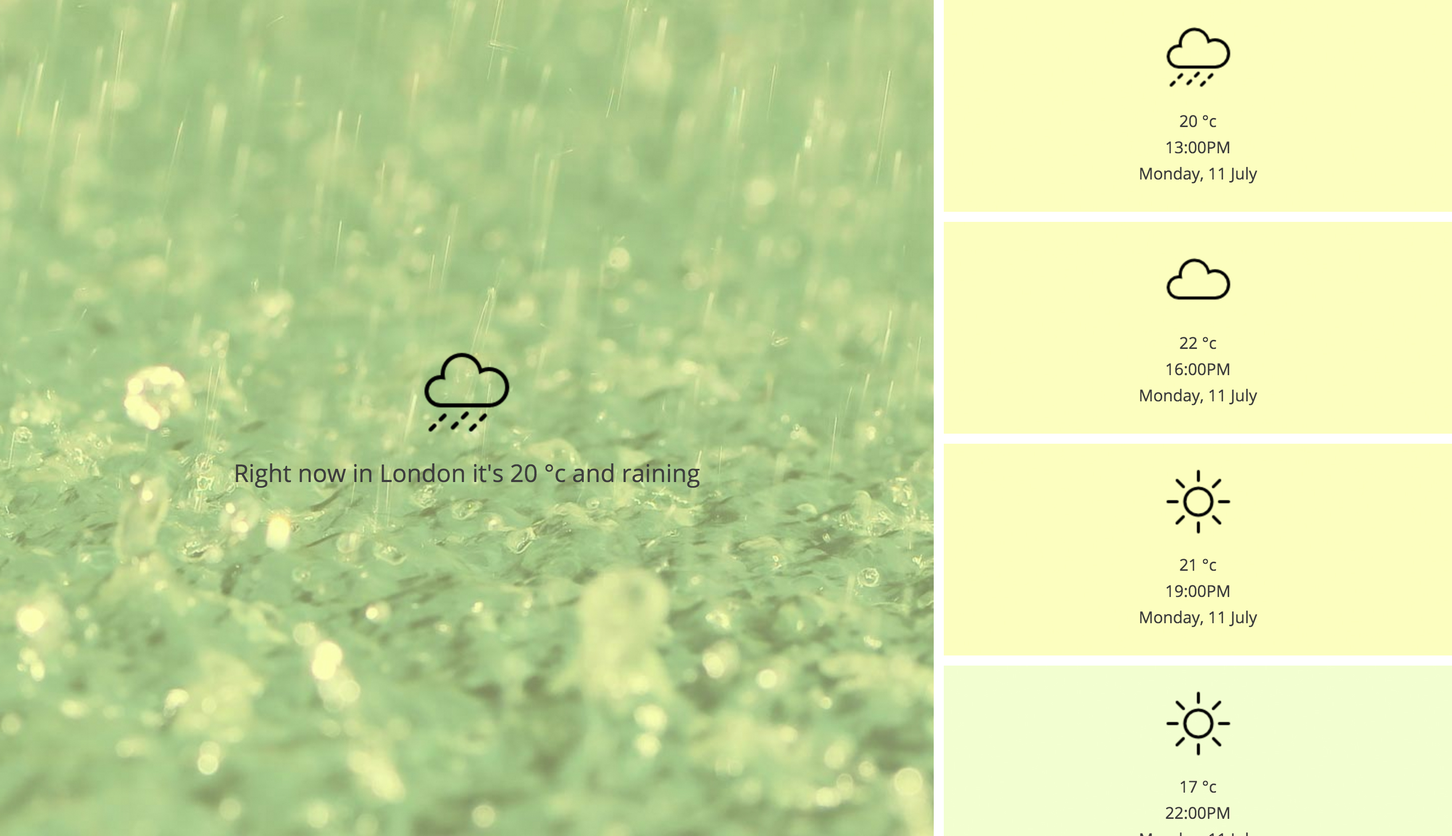
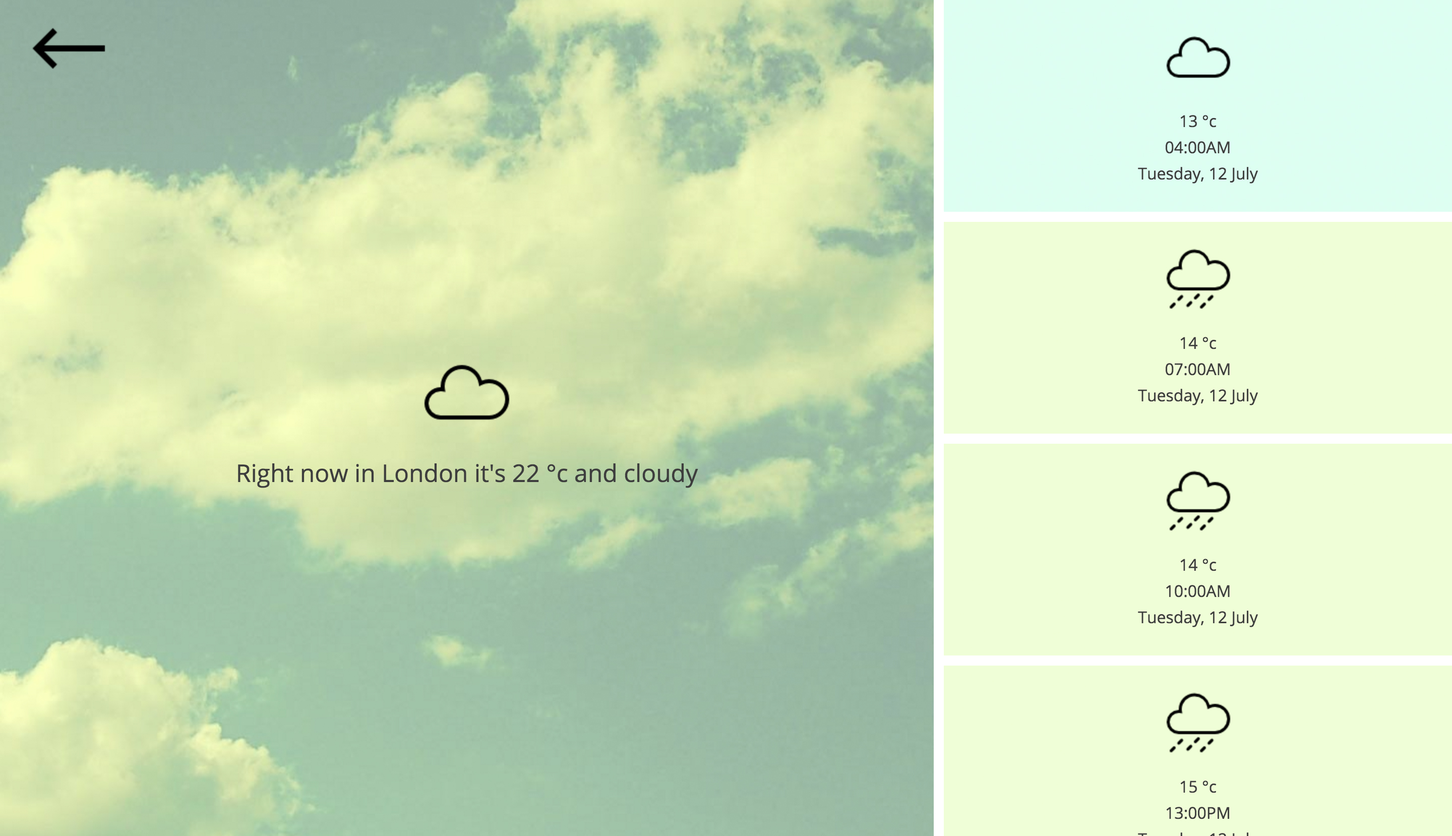
searching for a city streamlined, general bug fixes and read me updated

diff --git a/src/js/app.js b/src/js/app.js
@@ -1,43 +1,80 @@
-var app = angular.module('weather', []);
+var openWeatherMapApiKey = 'fb161b8bdfd1a946ed269b0b2cf42b77';
 var citiesJson = [{"city":"Adak","country":"United States"},{"city":"Apia","country":"Samoa"},{"city":"Pago Pago","country":"United States"},{"city":"Alofi","country":"Niue"},{"city":"Avarua","country":"Cook Islands"},{"city":"Honolulu","country":"United States"},{"city":"Hilo","country":"United States"},{"city":"Anchorage","country":"United States"},{"city":"Papeete","country":"French Polynesia"},{"city":"Fairbanks","country":"United States"},{"city":"Sitka","country":"United States"},{"city":"Whitehorse","country":"Canada"},{"city":"Juneau","country":"United States"},{"city":"Adamstown","country":"United States"},{"city":"Vancouver","country":"Canada"},{"city":"Portland","country":"United States"},{"city":"San Francisco","country":"United States"},{"city":"Seattle","country":"United States"},{"city":"Sacramento","country":"United States"},{"city":"Los Angeles","country":"United States"},{"city":"Riverside","country":"United States"},{"city":"San Diego","country":"United States"},{"city":"Tijuana","country":"Mexico"},{"city":"Mexicali","country":"Mexico"},{"city":"Las Vegas","country":"United States"},{"city":"Yellowknife","country":"Canada"},{"city":"Calgary","country":"Canada"},{"city":"Edmonton","country":"Canada"},{"city":"Phoenix","country":"United States"},{"city":"Salt Lake City","country":"United States"},{"city":"Tucson","country":"United States"},{"city":"Hanga Roa","country":"Chile"},{"city":"Saskatoon","country":"Canada"},{"city":"Albuquerque","country":"United States"},{"city":"El Paso","country":"United States"},{"city":"Chihuahua","country":"Mexico"},{"city":"Denver","country":"United States"},{"city":"Durango","country":"Mexico"},{"city":"Regina","country":"Canada"},{"city":"Zapopan","country":"Mexico"},{"city":"Guadalajara","country":"Mexico"},{"city":"Monterrey","country":"Mexico"},{"city":"Mexico City","country":"Mexico"},{"city":"San Antonio","country":"United States"},{"city":"Puebla","country":"Mexico"},{"city":"Austin","country":"United States"},{"city":"Oklahoma City","country":"United States"},{"city":"Wichita","country":"United States"},{"city":"Winnipeg","country":"Canada"},{"city":"Dallas","country":"United States"},{"city":"Veracruz","country":"Mexico"},{"city":"Houston","country":"United States"},{"city":"Kansas City","country":"United States"},{"city":"Minneapolis","country":"United States"},{"city":"Quetzaltenango","country":"Guatemala"},{"city":"Guatemala City","country":"Guatemala"},{"city":"New Orleans","country":"United States"},{"city":"Memphis","country":"United States"},{"city":"Mérida","country":"Mexico"},{"city":"San Salvador","country":"El Salvador"},{"city":"Belmopan","country":"Belize"},{"city":"Belize City","country":"Belize"},{"city":"Milwaukee","country":"United States"},{"city":"Chicago","country":"United States"},{"city":"Tegucigalpa","country":"Honduras"},{"city":"Nashville","country":"United States"},{"city":"Managua","country":"Nicaragua"},{"city":"Indianapolis","country":"United States"},{"city":"Louisville","country":"United States"},{"city":"Cincinnati","country":"United States"},{"city":"Atlanta","country":"United States"},{"city":"San José","country":"Costa Rica"},{"city":"Detroit","country":"United States"},{"city":"Columbus","country":"United States"},{"city":"Tampa","country":"United States"},{"city":"Havana","country":"Cuba"},{"city":"Cleveland","country":"United States"},{"city":"Jacksonville","country":"United States"},{"city":"George Town","country":"Malaysia"},{"city":"Charlotte","country":"United States"},{"city":"Miami","country":"United States"},{"city":"Pittsburgh","country":"United States"},{"city":"Guayaquil","country":"Ecuador"},{"city":"Panama City","country":"Panama"},{"city":"Toronto","country":"Canada"},{"city":"Buffalo","country":"United States"},{"city":"Raleigh","country":"United States"},{"city":"Quito","country":"Ecuador"},{"city":"Rochester","country":"United States"},{"city":"Nassau","country":"The Bahamas"},{"city":"Washington","country":"United States"},{"city":"Lima","country":"Peru"},{"city":"Kingston","country":"Jamaica"},{"city":"Baltimore","country":"United States"},{"city":"Cali","country":"Colombia"},{"city":"Virginia Beach","country":"United States"},{"city":"Ottawa","country":"Canada"},{"city":"Medellín","country":"Colombia"},{"city":"Cartagena","country":"Colombia"},{"city":"Philadelphia","country":"United States"},{"city":"Barranquilla","country":"Colombia"},{"city":"Forked River","country":"United States"},{"city":"Jersey City","country":"United States"},{"city":"Bogotá","country":"Colombia"},{"city":"Montreal","country":"Canada"},{"city":"Iquitos","country":"Peru"},{"city":"Valdivia","country":"Chile"},{"city":"Concepción","country":"Chile"},{"city":"Cusco","country":"Peru"},{"city":"Maracaibo","country":"Venezuela"},{"city":"Valparaíso","country":"Chile"},{"city":"Arequipa","country":"Peru"},{"city":"Providence","country":"United States"},{"city":"La Serena","country":"Chile"},{"city":"Cockburn Town","country":"Turks and Caicos Islands"},{"city":"Boston","country":"United States"},{"city":"Punta Arenas","country":"Chile"},{"city":"Santiago","country":"Chile"},{"city":"Antofagasta","country":"Chile"},{"city":"Iquique","country":"Chile"},{"city":"Oranjestad","country":"Aruba"},{"city":"Santo Domingo","country":"Dominican Republic"},{"city":"Rio Branco","country":"Brazil"},{"city":"Willemstad","country":"Netherlands Antilles"},{"city":"Calama","country":"Chile"},{"city":"Mendoza","country":"Argentina"},{"city":"Iqaluit","country":"Canada"},{"city":"Ushuaia","country":"Argentina"},{"city":"La Paz","country":"Bolivia"},{"city":"Puerto Williams","country":"Chile"},{"city":"Caracas","country":"Venezuela"},{"city":"Fredericton","country":"Canada"},{"city":"San Juan","country":"Puerto Rico"},{"city":"Saint John","country":"Grenada"},{"city":"Sucre","country":"Bolivia"},{"city":"Charlotte Amalie","country":"United States"},{"city":"Hamilton","country":"Bermuda"},{"city":"Road Town","country":"British Virgin Islands"},{"city":"Córdoba","country":"Argentina"},{"city":"Porto Velho","country":"Brazil"},{"city":"Charlottetown","country":"Canada"},{"city":"The Valley","country":"Anguilla"},{"city":"Basse-Terre","country":"Guadeloupe"},{"city":"Bahía Blanca","country":"Argentina"},{"city":"St. John's","country":"Canada"},{"city":"San Fernando","country":"Trinidad and Tobago"},{"city":"Roseau","country":"Dominica"},{"city":"Chaguanas","country":"Trinidad and Tobago"},{"city":"Kingstown","country":"Saint Vincent and the Grenadines"},{"city":"Castries","country":"St. Lucia"},{"city":"Rosario","country":"Argentina"},{"city":"Boa Vista","country":"Brazil"},{"city":"Manaus","country":"Brazil"},{"city":"Bridgetown","country":"Barbados"},{"city":"Buenos Aires","country":"Argentina"},{"city":"Stanley","country":"Hong Kong"},{"city":"Asunción","country":"Paraguay"},{"city":"Saint-Pierre","country":"Réunion"},{"city":"Montevideo","country":"Uruguay"},{"city":"Cuiabá","country":"Brazil"},{"city":"Paramaribo","country":"Suriname"},{"city":"Campo Grande","country":"Brazil"},{"city":"Chuí","country":"Brazil"},{"city":"Pelotas","country":"Brazil"},{"city":"Cayenne","country":"French Guiana"},{"city":"Nuuk","country":"Greenland"},{"city":"Porto Alegre","country":"Brazil"},{"city":"Macapá","country":"Brazil"},{"city":"Assis","country":"Italy"},{"city":"Curitiba","country":"Brazil"},{"city":"Belém","country":"Brazil"},{"city":"Brasília","country":"Brazil"},{"city":"Campinas","country":"Brazil"},{"city":"São Paulo","country":"Brazil"},{"city":"Vitória","country":"Brazil"},{"city":"Ilhéus","country":"Brazil"},{"city":"Fortaleza","country":"Brazil"},{"city":"Maceió","country":"Brazil"},{"city":"Recife","country":"Brazil"},{"city":"Ponta Delgada","country":"Portugal"},{"city":"Praia","country":"Brazil"},{"city":"Reykjavík","country":"Iceland"},{"city":"Dakar","country":"Senegal"},{"city":"Thiès","country":"Senegal"},{"city":"Serekunda","country":"The Gambia"},{"city":"Brikama","country":"The Gambia"},{"city":"Banjul","country":"The Gambia"},{"city":"Nouakchott","country":"Mauritania"},{"city":"Bissau","country":"Guinea-Bissau"},{"city":"Conakry","country":"Guinea"},{"city":"Freetown","country":"Sierra Leone"},{"city":"El Aaiún","country":"Western Sahara"},{"city":"Monrovia","country":"Liberia"},{"city":"Lisbon","country":"Portugal"},{"city":"Porto","country":"Brazil"},{"city":"Bamako","country":"Mali"},{"city":"Casablanca","country":"Morocco"},{"city":"Koulikoro","country":"Mali"},{"city":"Rabat","country":"Morocco"},{"city":"Tórshavn","country":"Faroe Islands"},{"city":"Dublin","country":"Ireland"},{"city":"Seville","country":"Spain"},{"city":"Belfast","country":"United Kingdom"},{"city":"Jamestown","country":"United States"},{"city":"Gibraltar","country":"Gibraltar"},{"city":"Yamoussoukro","country":"Côte d'Ivoire"},{"city":"Douglas","country":"Australia"},{"city":"Málaga","country":"Spain"},{"city":"Glasgow","country":"United Kingdom"},{"city":"Abidjan","country":"Côte d'Ivoire"},{"city":"Madrid","country":"Spain"},{"city":"Cardiff","country":"United Kingdom"},{"city":"Edinburgh","country":"United Kingdom"},{"city":"Timbuktu","country":"Mali"},{"city":"Liverpool","country":"United Kingdom"},{"city":"Bilbao","country":"Spain"},{"city":"Manchester","country":"United Kingdom"},{"city":"Aberdeen","country":"United Kingdom"},{"city":"Birmingham","country":"United Kingdom"},{"city":"Leeds","country":"United Kingdom"},{"city":"Nantes","country":"France"},{"city":"Ouagadougou","country":"Burkina Faso"},{"city":"Tamale","country":"Ghana"},{"city":"Valencia","country":"Spain"},{"city":"Accra","country":"Ghana"},{"city":"London","country":"United Kingdom"},{"city":"Greenwich","country":"United Kingdom"},{"city":"Lomé","country":"Togo"},{"city":"Toulouse","country":"France"},{"city":"Ibiza","country":"Spain"},{"city":"Niamey","country":"Niger"},{"city":"Barcelona","country":"Spain"},{"city":"Paris","country":"France"},{"city":"Cotonou","country":"Benin"},{"city":"Porto-Novo","country":"Benin"},{"city":"Palma","country":"Spain"},{"city":"Algiers","country":"Algeria"},{"city":"Lagos","country":"Nigeria"},{"city":"Ibadan","country":"Nigeria"},{"city":"The Hague","country":"Netherlands"},{"city":"Brussels","country":"Belgium"},{"city":"Antwerp","country":"Belgium"},{"city":"Rotterdam","country":"Netherlands"},{"city":"Lyon","country":"France"},{"city":"Amsterdam","country":"Netherlands"},{"city":"Marseille","country":"France"},{"city":"Bergen","country":"Norway"},{"city":"Geneva","country":"Switzerland"},{"city":"São Tomé","country":"Brazil"},{"city":"Düsseldorf","country":"Germany"},{"city":"Cologne","country":"Germany"},{"city":"Cannes","country":"France"},{"city":"Nice","country":"France"},{"city":"Monaco","country":"Monaco"},{"city":"Bern","country":"Brazil"},{"city":"Abuja","country":"Nigeria"},{"city":"Enugu","country":"Nigeria"},{"city":"Turin","country":"Italy"},{"city":"Strasbourg","country":"France"},{"city":"Kano","country":"Nigeria"},{"city":"Zürich","country":"Switzerland"},{"city":"Frankfurt","country":"Germany"},{"city":"Malabo","country":"Philippines"},{"city":"Stuttgart","country":"Germany"},{"city":"Milan","country":"Italy"},{"city":"Libreville","country":"Gabon"},{"city":"Vaduz","country":"Liechtenstein"},{"city":"Douala","country":"Cameroon"},{"city":"Hanover","country":"Germany"},{"city":"Hamburg","country":"Germany"},{"city":"Tunis","country":"Tunisia"},{"city":"Aarhus","country":"Denmark"},{"city":"Oslo","country":"Norway"},{"city":"Innsbruck","country":"Austria"},{"city":"Yaoundé","country":"Cameroon"},{"city":"Munich","country":"Germany"},{"city":"Gothenburg","country":"Sweden"},{"city":"Leipzig","country":"Germany"},{"city":"Rome","country":"Italy"},{"city":"Copenhagen","country":"Denmark"},{"city":"Malmö","country":"Sweden"},{"city":"Salzburg","country":"Austria"},{"city":"Tripoli","country":"Libya"},{"city":"Luanda","country":"Angola"},{"city":"Berlin","country":"Germany"},{"city":"Dresden","country":"Germany"},{"city":"Naples","country":"Italy"},{"city":"Linz","country":"Austria"},{"city":"Prague","country":"Czech Republic"},{"city":"Sabha","country":"Libya"},{"city":"Birkirkara","country":"Malta"},{"city":"Ljubljana","country":"Slovenia"},{"city":"Valletta","country":"Malta"},{"city":"N'Djamena","country":"Chad"},{"city":"Brazzaville","country":"Republic of the Congo"},{"city":"Kinshasa","country":"Democratic Republic of the Congo"},{"city":"Graz","country":"Austria"},{"city":"Longyearbyen","country":"Svalbard and Jan Mayen"},{"city":"Zagreb","country":"Croatia"},{"city":"Vienna","country":"Austria"},{"city":"Bratislava","country":"Slovakia"},{"city":"Stockholm","country":"Sweden"},{"city":"Sarajevo","country":"Bosnia and Herzegovina"},{"city":"Cape Town","country":"South Africa"},{"city":"Bangui","country":"Central African Republic"},{"city":"Budapest","country":"Hungary"},{"city":"Podgorica","country":"Montenegro"},{"city":"Tirana","country":"Albania"},{"city":"Kraków","country":"Poland"},{"city":"Belgrade","country":"Serbia"},{"city":"Kaliningrad","country":"Russia"},{"city":"Warsaw","country":"Poland"},{"city":"Pristina","country":"Kosovo"},{"city":"Skopje","country":"Macedonia"},{"city":"Sofia","country":"Bulgaria"},{"city":"Athens","country":"Greece"},{"city":"Tampere","country":"Finland"},{"city":"Lviv","country":"Ukraine"},{"city":"Riga","country":"Latvia"},{"city":"Espoo","country":"Finland"},{"city":"Tallinn","country":"Estonia"},{"city":"Helsinki","country":"Finland"},{"city":"Vilnius","country":"Lithuania"},{"city":"Port Elizabeth","country":"South Africa"},{"city":"Livingstone","country":"Zambia"},{"city":"Gaborone","country":"Botswana"},{"city":"Bucharest","country":"Romania"},{"city":"Bloemfontein","country":"South Africa"},{"city":"Tartu","country":"Syria"},{"city":"Lubumbashi","country":"Democratic Republic of the Congo"},{"city":"Maseru","country":"Lesotho"},{"city":"Francistown","country":"Botswana"},{"city":"Minsk","country":"Belarus"},{"city":"Johannesburg","country":"South Africa"},{"city":"Pretoria","country":"South Africa"},{"city":"Lusaka","country":"Zambia"},{"city":"Ndola","country":"Zambia"},{"city":"Bulawayo","country":"Zimbabwe"},{"city":"Istanbul","country":"Turkey"},{"city":"Bursa","country":"Turkey"},{"city":"Bujumbura","country":"Burundi"},{"city":"Tiraspol","country":"Moldova"},{"city":"Alexandria","country":"Egypt"},{"city":"Kigali","country":"Rwanda"},{"city":"Saint Petersburg","country":"Russia"},{"city":"Odessa","country":"Ukraine"},{"city":"Harare","country":"Zimbabwe"},{"city":"Durban","country":"South Africa"},{"city":"Mbabane","country":"Swaziland"},{"city":"Lobamba","country":"Swaziland"},{"city":"Cairo","country":"Egypt"},{"city":"Manzini","country":"Swaziland"},{"city":"Port Said","country":"Egypt"},{"city":"Konya","country":"Turkey"},{"city":"Omdurman","country":"Sudan"},{"city":"Khartoum","country":"Sudan"},{"city":"Suez","country":"Egypt"},{"city":"Maputo","country":"Mozambique"},{"city":"Luxor","country":"Egypt"},{"city":"Ankara","country":"Turkey"},{"city":"Mwanza","country":"Tanzania"},{"city":"Murmansk","country":"Russia"},{"city":"Nicosia","country":"Cyprus"},{"city":"Lilongwe","country":"Malawi"},{"city":"Simferopol","country":"Ukraine"},{"city":"Gaza","country":"Palestine"},{"city":"Mersin","country":"Turkey"},{"city":"Tel Aviv","country":"Israel"},{"city":"Blantyre","country":"Malawi"},{"city":"Jerusalem","country":"Israel"},{"city":"Adana","country":"Turkey"},{"city":"Beirut","country":"Lebanon"},{"city":"Dodoma","country":"Tanzania"},{"city":"Amman","country":"Jordan"},{"city":"Damascus","country":"Syria"},{"city":"Kharkiv","country":"Ukraine"},{"city":"Nairobi","country":"Kenya"},{"city":"Gaziantep","country":"Turkey"},{"city":"Moscow","country":"Russia"},{"city":"Addis Ababa","country":"Ethiopia"},{"city":"Asmara","country":"Eritrea"},{"city":"Jeddah","country":"Saudi Arabia"},{"city":"Zanzibar City","country":"Tanzania"},{"city":"Medina","country":"Saudi Arabia"},{"city":"Mecca","country":"Saudi Arabia"},{"city":"Sukhumi","country":"Georgia"},{"city":"Moroni","country":"Comoros"},{"city":"Baghdad","country":"Iraq"},{"city":"Hargeisa","country":"Somalia"},{"city":"Yerevan","country":"Armenia"},{"city":"Tbilisi","country":"Georgia"},{"city":"Mamoudzou","country":"Mayotte"},{"city":"Mogadishu","country":"Somalia"},{"city":"Tabriz","country":"Iran"},{"city":"Riyadh","country":"Saudi Arabia"},{"city":"Stepanakert","country":"Azerbaijan"},{"city":"Antananarivo","country":"Madagascar"},{"city":"Basra","country":"Iraq"},{"city":"Baku","country":"Azerbaijan"},{"city":"Dammam","country":"Saudi Arabia"},{"city":"Samara","country":"Russia"},{"city":"Manama","country":"Bahrain"},{"city":"Tehran","country":"Iran"},{"city":"Doha","country":"Qatar"},{"city":"Abu Dhabi","country":"United Arab Emirates"},{"city":"Dubai","country":"United Arab Emirates"},{"city":"Saint-Denis","country":"Réunion"},{"city":"Perm","country":"Russia"},{"city":"Port Louis","country":"Mauritius"},{"city":"Ashgabat","country":"Turkmenistan"},{"city":"Muscat","country":"Oman"},{"city":"Nukus","country":"Uzbekistan"},{"city":"Mashhad","country":"Iran"},{"city":"Yekaterinburg","country":"Russia"},{"city":"Kandahar","country":"Afghanistan"},{"city":"Karachi","country":"Pakistan"},{"city":"Hyderabad","country":"India"},{"city":"Dushanbe","country":"Tajikistan"},{"city":"Kabul","country":"Afghanistan"},{"city":"Tashkent","country":"Uzbekistan"},{"city":"Astana","country":"Kazakhstan"},{"city":"Multan","country":"Pakistan"},{"city":"Peshawar","country":"Pakistan"},{"city":"Namangan","country":"Uzbekistan"},{"city":"Ahmedabad","country":"India"},{"city":"Mumbai","country":"India"},{"city":"Surat","country":"India"},{"city":"Faisalabad","country":"Pakistan"},{"city":"Rawalpindi","country":"Pakistan"},{"city":"Islamabad","country":"Pakistan"},{"city":"Omsk","country":"Russia"},{"city":"Pune","country":"India"},{"city":"Lahore","country":"Pakistan"},{"city":"Bishkek","country":"Kyrgyzstan"},{"city":"Srinagar","country":"India"},{"city":"Amritsar","country":"India"},{"city":"Jaipur","country":"India"},{"city":"Ludhiana","country":"India"},{"city":"Almaty","country":"Kazakhstan"},{"city":"New Delhi","country":"India"},{"city":"Bangalore","country":"India"},{"city":"Nagpur","country":"India"},{"city":"Colombo","country":"Sri Lanka"},{"city":"Chennai","country":"India"},{"city":"Kanpur","country":"India"},{"city":"Kandy","country":"Sri Lanka"},{"city":"Lucknow","country":"India"},{"city":"Batticaloa","country":"Sri Lanka"},{"city":"Novosibirsk","country":"Russia"},{"city":"Patna","country":"India"},{"city":"Kathmandu","country":"Nepal"},{"city":"Ürümqi","country":"China"},{"city":"Norilsk","country":"Russia"},{"city":"Gangtok","country":"India"},{"city":"Shigatse","country":"China"},{"city":"Thimphu","country":"Bhutan"},{"city":"Dhaka","country":"Bangladesh"},{"city":"Lhasa","country":"China"},{"city":"Agartala","country":"India"},{"city":"Guwahati","country":"India"},{"city":"Chittagong","country":"Bangladesh"},{"city":"Shillong","country":"India"},{"city":"Port Blair","country":"India"},{"city":"Dibrugarh","country":"India"},{"city":"Banda Aceh","country":"Indonesia"},{"city":"Yangon","country":"Myanmar"},{"city":"Medan","country":"Indonesia"},{"city":"Chiang Mai","country":"Thailand"},{"city":"Surat Thani","country":"Thailand"},{"city":"Padang","country":"Indonesia"},{"city":"Hat Yai","country":"Thailand"},{"city":"Bangkok","country":"Thailand"},{"city":"Pattaya","country":"Thailand"},{"city":"Ipoh","country":"Malaysia"},{"city":"Pekanbaru","country":"Indonesia"},{"city":"Bratsk","country":"Russia"},{"city":"Kuala Lumpur","country":"Malaysia"},{"city":"Xining","country":"China"},{"city":"Nakhon Ratchasima","country":"Thailand"},{"city":"Kota Bharu","country":"Malaysia"},{"city":"Vientiane","country":"Laos"},{"city":"Kunming","country":"China"},{"city":"Udon Thani","country":"Thailand"},{"city":"Johor Bahru","country":"Malaysia"},{"city":"Lanzhou","country":"China"},{"city":"Singapore","country":"Singapore"},{"city":"Siem Reap","country":"Cambodia"},{"city":"Chengdu","country":"China"},{"city":"Palembang","country":"Indonesia"},{"city":"Phnom Penh","country":"Cambodia"},{"city":"Hanoi","country":"Vietnam"},{"city":"Chongqing","country":"China"},{"city":"Hai Phong","country":"Vietnam"},{"city":"Ho Chi Minh City","country":"Vietnam"},{"city":"Jakarta","country":"Indonesia"},{"city":"Bogor","country":"Indonesia"},{"city":"Ulan Bator","country":"Mongolia"},{"city":"Bandung","country":"Indonesia"},{"city":"Da Nang","country":"Vietnam"},{"city":"Nanning","country":"China"},{"city":"Pontianak","country":"Indonesia"},{"city":"Kuching","country":"Malaysia"},{"city":"Semarang","country":"Indonesia"},{"city":"Taiyuan","country":"China"},{"city":"Malang","country":"Indonesia"},{"city":"Surabaya","country":"Indonesia"},{"city":"Guangzhou","country":"China"},{"city":"Macau","country":"Macau"},{"city":"Zhengzhou","country":"China"},{"city":"Dongguan","country":"China"},{"city":"Miri","country":"Malaysia"},{"city":"Shenzhen","country":"China"},{"city":"Hong Kong","country":"Hong Kong"},{"city":"Wuhan","country":"China"},{"city":"Handan","country":"China"},{"city":"Shijiazhuang","country":"China"},{"city":"Bandar Seri Begawan","country":"Brunei"},{"city":"Denpasar","country":"Indonesia"},{"city":"Mandurah","country":"Australia"},{"city":"Perth","country":"Australia"},{"city":"Kota Kinabalu","country":"Malaysia"},{"city":"Beijing","country":"China"},{"city":"Balikpapan","country":"Indonesia"},{"city":"Jinan","country":"China"},{"city":"Tianjin","country":"China"},{"city":"Port Hedland","country":"Australia"},{"city":"Nanjing","country":"China"},{"city":"Makassar","country":"Indonesia"},{"city":"Hangzhou","country":"China"},{"city":"Kaohsiung","country":"Taiwan"},{"city":"Qingdao","country":"China"},{"city":"Taichung","country":"Taiwan"},{"city":"Manila","country":"Philippines"},{"city":"Quezon City","country":"Philippines"},{"city":"Shanghai","country":"China"},{"city":"Taipei","country":"Taiwan"},{"city":"Dalian","country":"China"},{"city":"Iloilo City","country":"Philippines"},{"city":"Zamboanga City","country":"Philippines"},{"city":"Shenyang","country":"China"},{"city":"Tagbilaran","country":"Philippines"},{"city":"Cebu City","country":"Philippines"},{"city":"Changchun","country":"China"},{"city":"Dili","country":"Mali"},{"city":"Pyongyang","country":"North Korea"},{"city":"Davao City","country":"Philippines"},{"city":"Kaesong","country":"North Korea"},{"city":"Harbin","country":"China"},{"city":"Incheon","country":"South Korea"},{"city":"Seoul","country":"South Korea"},{"city":"Wonsan","country":"North Korea"},{"city":"Okinawa","country":"Japan"},{"city":"Ambon","country":"Indonesia"},{"city":"Daegu","country":"South Korea"},{"city":"Busan","country":"South Korea"},{"city":"Yakutsk","country":"Russia"},{"city":"Chongjin","country":"North Korea"},{"city":"Fukuoka","country":"Japan"},{"city":"Darwin","country":"Australia"},{"city":"Vladivostok","country":"Russia"},{"city":"Hiroshima","country":"Japan"},{"city":"Melekeok","country":"Palau"},{"city":"Kobe","country":"Japan"},{"city":"Osaka","country":"Japan"},{"city":"Kyoto","country":"Japan"},{"city":"Nagoya","country":"Japan"},{"city":"Adelaide","country":"Australia"},{"city":"Yokohama","country":"Japan"},{"city":"Kawasaki","country":"Japan"},{"city":"Jayapura","country":"Indonesia"},{"city":"Sapporo","country":"Japan"},{"city":"Geelong","country":"Australia"},{"city":"Hagåtña","country":"United States"},{"city":"Dededo","country":"United States"},{"city":"Melbourne","country":"Australia"},{"city":"Saipan","country":"United States"},{"city":"Cairns","country":"Australia"},{"city":"Townsville","country":"Australia"},{"city":"Port Moresby","country":"Papua New Guinea"},{"city":"Hobart","country":"Australia"},{"city":"Canberra","country":"Australia"},{"city":"Rockhampton","country":"Australia"},{"city":"Magadan","country":"Russia"},{"city":"Wollongong","country":"Australia"},{"city":"Sydney","country":"Australia"},{"city":"Newcastle","country":"United Kingdom"},{"city":"Weno","country":"Federated States of Micronesia"},{"city":"Brisbane","country":"Australia"},{"city":"Gold Coast","country":"Australia"},{"city":"Palikir","country":"Federated States of Micronesia"},{"city":"Honiara","country":"Solomon Islands"},{"city":"Nouméa","country":"New Caledonia"},{"city":"Invercargill","country":"New Zealand"},{"city":"Dunedin","country":"New Zealand"},{"city":"Majuro","country":"Marshall Islands"},{"city":"Christchurch","country":"New Zealand"},{"city":"Wellington","country":"New Zealand"},{"city":"Auckland","country":"New Zealand"},{"city":"Suva","country":"Fiji"},{"city":"Funafuti","country":"Tuvalu"},{"city":"Labasa","country":"Fiji"},{"city":"Nukuʻalofa","country":"Tonga"},{"city":"Rabi Island","country":""},{"city":"St. Louis","country":"United States"},{"city":"Santiago de Cuba","country":"Cuba"},{"city":"New York City","country":"United States"},{"city":"Port-au-Prince","country":"Haiti"},{"city":"San Carlos de Bariloche","country":"Argentina"},{"city":"Quebec City","country":"Canada"},{"city":"City of Halifax","country":"Canada"},{"city":"Santa Cruz de la Sierra","country":"Bolivia"},{"city":"St. George's","country":"Grenada"},{"city":"Port of Spain","country":"Trinidad and Tobago"},{"city":"Fort-de-France","country":"Martinique"},{"city":"Ciudad del Este","country":"Argentina"},{"city":"São José dos Campos","country":"Brazil"},{"city":"Rio de Janeiro","country":"Brazil"},{"city":"Horta (Azores)","country":"Portugal"},{"city":"Angra do Heroísmo","country":"Portugal"},{"city":"Santa Cruz de Tenerife","country":"Spain"},{"city":"Las Palmas de Gran Canaria","country":"Spain"},{"city":"Cork (city)","country":"Ireland"},{"city":"Marrakech","country":"Morocco"},{"city":"Andorra la Vella","country":"Andorra"},{"city":"Luxembourg (city)","country":"Luxembourg"},{"city":"City of San Marino","country":"San Marino"},{"city":"Vatican City","country":""},{"city":"Split (city)","country":"Croatia"},{"city":"Gdańsk","country":"Poland"},{"city":"Thessaloniki","country":"Greece"},{"city":"İzmir","country":"Turkey"},{"city":"Chişinău","country":"Moldova"},{"city":"Kiev","country":"Ukraine"},{"city":"Dar es Salaam","country":"Tanzania"},{"city":"Djibouti (city)","country":"Djibouti"},{"city":"Tskhinvali","country":"Georgia"},{"city":"Sana'a","country":"Yemen"},{"city":"Nizhny Novgorod","country":"Russia"},{"city":"Arbil","country":"Iraq"},{"city":"Kuwait City","country":"Kuwait"},{"city":"Malé","country":"Republic of Maldives"},{"city":"Sri Jayawardenapura-Kotte","country":"Sri Lanka"},{"city":"Kolkata","country":"India"},{"city":"Naypyidaw","country":""},{"city":"Phuket (city)","country":"Thailand"},{"city":"Alor Star","country":"Malaysia"},{"city":"Malacca Town","country":"Malaysia"},{"city":"Huế","country":"Vietnam"},{"city":"Xi'an","country":"China"},{"city":"Yogyakarta (city)","country":"Indonesia"},{"city":"Makati City","country":"Philippines"},{"city":"Koror","country":"Republic of Palau"},{"city":"Tokyo","country":"Japan"},{"city":"Petropavlovsk-Kamchatsky","country":"Russia"},{"city":"Yaren District","country":"Nauru"},{"city":"Port Vila","country":"Vanuatu"},{"city":"South Tarawa","country":""},{"city":"Mata-Utu","country":"Wallis and Futuna"},{"city":"Anadyr (town)","country":""},{"city":"Nukulaelae","country":""}];
+
+var app = angular.module('weather', []);
+
 app.controller('mainController', ['$scope', 'weatherFactory', function ($scope, weatherFactory) {
 
     $scope.locations = citiesJson;
+    $scope.city = {};
+
     $scope.setCity = function () {
-        weatherFactory.json($scope.cityInput).success(function (response) {
+        weatherFactory.json($scope.city.input).success(function (response) {
             $scope.weather = response.list;
             $scope.cityName = response.city.name;
+
+            setDawnDusk(response.city.coord);
             $scope.weatherPresent = response.list[0];
+        }).error(function (response) {
+            // error
         });
     }
 
+    // clicking on a list item will pass the city name and retrieve the data
     $scope.cityClick = function (city) {
-        $scope.cityInput = city;
+        $scope.city.input = city;
         $scope.setCity();
     }
 
+    // creating a random background image on the homepage
     $scope.getBackgroundImage = function () {
         $scope.randomNumber = 'background-' + (Math.floor(Math.random() * 4) + 1);
     }
 
+    // returning to the homepage from the weather list page
+    $scope.returnClick = function () {
+        $scope.weather = null;
+        $scope.city.input = null;
+    }
+
+    var setDawnDusk = function (coords) {
+        weatherFactory.getSunriseSunset(coords).success(function (response) {
+            $scope.sunrise = response.results.sunrise;
+            $scope.sunset = response.results.sunset;
+
+        }).error(function (response) {
+            // error
+        })
+    }
+
+    // function call for the random background image page
     $scope.getBackgroundImage();
 }]);
 
-// Factory returns the JSON file of the weather
+// factory returns the JSON file of the weather
 app.factory('weatherFactory', ['$http', function ($http) {
 
     var weather = {};
-    weather.urlStart = 'http://api.openweathermap.org/data/2.5/forecast?q=';
-    weather.urlEnd =  ',&mode=json&appid=fb161b8bdfd1a946ed269b0b2cf42b77';
 
+    // main json call to get the weather data for that city
     weather.json = function (city) {
-        console.log(weather.urlStart + city + weather.urlEnd);
+        weather.urlStart = 'http://api.openweathermap.org/data/2.5/forecast?q=';
+        weather.urlEnd =  ',&mode=json&appid=' + openWeatherMapApiKey;
         return $http.get(weather.urlStart + city + weather.urlEnd);
+    }
+
+    // finding out when it is sunrise and sunset to add more detail to the night time weather
+    weather.getSunriseSunset = function (coords) {
+        weather.sunriseSunset = 'http://api.sunrise-sunset.org/json?';
+        weather.sunriseSunsetLat = 'lat=' + coords.lat;
+        weather.sunriseSunsetLng = '&lng=' + coords.lon
+
+        return $http.get(weather.sunriseSunset + weather.sunriseSunsetLat + weather.sunriseSunsetLng);
     }
     return weather;
 }]);
 
-// Custom filter. Kelvin is returned so it needs to be converted to celcius. 'input' is angular standard.
+// kelvin is returned so it needs to be converted to celcius. 'input' is angular standard.
 app.filter('celciusFilter', function () {
 
     return function (input) {
@@ -92,6 +129,9 @@ app.filter('weatherTypeFilter', function () {
         }
         return input = weatherType;
     }
-})
+});
 
 $('.weather-rainbow').removeClass('loading');
+
+// add error alerts if response is a failure
+// add night time mode as currently it is sunny in the middle of the night

diff --git a/index.html b/index.html
@@ -7,16 +7,29 @@
     </head>
     <body ng-controller="mainController" class="weather-rainbow loading">
         <main>
-            <div class="intro {{randomNumber}}" ng-if="weather == null">
+            <div class="intro {{randomNumber}}"
+                ng-if="weather == null">
                 <div class="inner opacity-7">
-                    <form class="search-area">
-                        <input type="text" id="search-city" class="search-city" ng-model="cityInput" placeholder="Type your city" autofocus />
-                        <button type="submit" for="search-city" class="search-city-click" ng-click="setCity()">Go</button>
+                    <form class="search-area"
+                        ng-submit="setCity()">
+                        <input type="text"
+                            id="search-city"
+                            class="search-city"
+                            ng-model="city.input"
+                            placeholder="Enter your city"
+                            tabindex="1"
+                            autofocus />
+                        <button type="submit"
+                            for="search-city"
+                            class="search-city-click"
+                            tabindex="2">
+                            Go
+                        </button>
                     </form>
                     <ul class="cities">
                         <li class="city"
-                            ng-class="location.city.toLowerCase().indexOf(cityInput.toLowerCase()) > -1 ? null : 'inactive'"
                             ng-repeat="location in locations | orderBy:'city'"
+                            ng-class="location.city.toLowerCase().indexOf(city.input.toLowerCase()) > -1 ? null : 'inactive'"
                             ng-click="cityClick(location.city)">
                             {{location.city}}
                         </li>
@@ -24,6 +37,7 @@
                 </div>
             </div>
             <section class="present-weather {{weatherPresent.weather[0].main}}" ng-if="weather != null">
+                <img src="https://maxcdn.icons8.com/windows10/PNG/96/Arrows/arrows_long_left-96.png" ng-click="returnClick()" class="return-arrow" title="Long Arrow Left" width="96">
                 <div class="temp-{{ weatherPresent.main.temp | celciusFilter }} box">
                     <div class="temperature">
                         <img src="https://maxcdn.icons8.com/iOS7/PNG/100/Weather/{{ weatherPresent.weather[0].main | weatherFilter: weatherPresent.weather[0].main }}-100.png" width="100">
@@ -35,11 +49,14 @@
                 <li class="interval" ng-repeat="interval in weather">
                     <div class="temp-{{ interval.main.temp | celciusFilter }} box">
                         <div class="temperature">
+                            <!-- {{sunset}}
+                            {{sunrise}} -->
                             <img src="https://maxcdn.icons8.com/iOS7/PNG/75/Weather/{{ interval.weather[0].main | weatherFilter: interval.weather[0].main }}-75.png" width="75">
                             <span>{{ interval.main.temp | celciusFilter }} &deg;c</span>
                             <p>
                                 <span>{{ interval.dt * 1000 | date:'HH:mma' }}</span>
                                 <span>{{ interval.dt * 1000 | date:'EEEE, d MMMM' }}</span>
+                                <!-- <span>{{ interval.dt * 1000 }}</span> -->
                             </p>
                         </div>
                     </div>
@@ -47,7 +64,8 @@
             </ul>
         </main>
         <script src="https://cdnjs.cloudflare.com/ajax/libs/zepto/1.1.6/zepto.min.js"></script>
-        <script src="https://ajax.googleapis.com/ajax/libs/angularjs/1.4.2/angular.min.js"></script>
+        <script src="/node_modules/angular/angular.min.js"></script>
+        <script src="/node_modules/moment/min/moment.min.js"></script>
         <script src="src/js/app.js"></script>
     </body>
 </html>

diff --git a/css/main.css b/css/main.css
@@ -101,6 +101,18 @@ html {
         background: transparent;
         font-size: 2em;
         padding: 10px; }
+      html .weather-rainbow .intro .search-area ::-webkit-input-placeholder {
+        /* Chrome/Opera/Safari */
+        color: #7e7e7e; }
+      html .weather-rainbow .intro .search-area ::-moz-placeholder {
+        /* Firefox 19+ */
+        color: #7e7e7e; }
+      html .weather-rainbow .intro .search-area :-ms-input-placeholder {
+        /* IE 10+ */
+        color: #7e7e7e; }
+      html .weather-rainbow .intro .search-area :-moz-placeholder {
+        /* Firefox 18- */
+        color: #7e7e7e; }
       html .weather-rainbow .intro .search-area .search-city-click {
         border: none;
         height: 55px;
@@ -126,6 +138,8 @@ html {
       float: left;
       display: block;
       margin-bottom: 10px; }
+      html .weather-rainbow .weather .interval:last-child {
+        margin-bottom: 0; }
   html .weather-rainbow .present-weather {
     float: left;
     width: 65%;
@@ -155,6 +169,12 @@ html {
       top: calc(50vh - 75px); }
       html .weather-rainbow .present-weather .temperature p {
         font-size: 1.5em; }
+    html .weather-rainbow .present-weather .return-arrow {
+      position: absolute;
+      top: 0;
+      left: 20px;
+      display: block;
+      cursor: pointer; }
   html .weather-rainbow .box {
     height: 100%;
     width: 100%;

diff --git a/src/scss/main.scss b/src/scss/main.scss
@@ -132,6 +132,22 @@ html {
 					padding: 10px;
 				}
 
+				::-webkit-input-placeholder { /* Chrome/Opera/Safari */
+					color: #7e7e7e;
+				}
+
+				::-moz-placeholder { /* Firefox 19+ */
+					color: #7e7e7e;
+				}
+
+				:-ms-input-placeholder { /* IE 10+ */
+					color: #7e7e7e;
+				}
+
+				:-moz-placeholder { /* Firefox 18- */
+					color: #7e7e7e;
+				}
+
 				.search-city-click {
 					border: none;
 				    height: 55px;
@@ -168,6 +184,10 @@ html {
 	            float: left;
 	            display: block;
 				margin-bottom: 10px;
+
+				&:last-child {
+					margin-bottom: 0;
+				}
 	        }
 	    }
 
@@ -211,6 +231,14 @@ html {
 				p {
 					font-size: 1.5em;
 				}
+			}
+
+			.return-arrow {
+				position: absolute;
+				top: 0;
+				left: 20px;
+				display: block;
+				cursor: pointer;
 			}
 		}
 

diff --git a/README.md b/README.md
@@ -11,4 +11,8 @@ Weather rainbow is a simple application using AngularJS that visually shows you 
 2. `npm install` to get the node_modules
 3.  `cd` to the folder and then `http-server ./` will open up [localhost:8080/](http://localhost:8080/)
 
-The app gets its live data from the [open weather map](http://openweathermap.org/api).
+Weather rainbow gets its live data from the [open weather map](http://openweathermap.org/api).
+
+### Bugs
+
+A few locations retrieve the wrong location data. An example is if you select 'New Dehli', you get 'Connaught Place'. I am slowly working through these and matching them up correctly...
